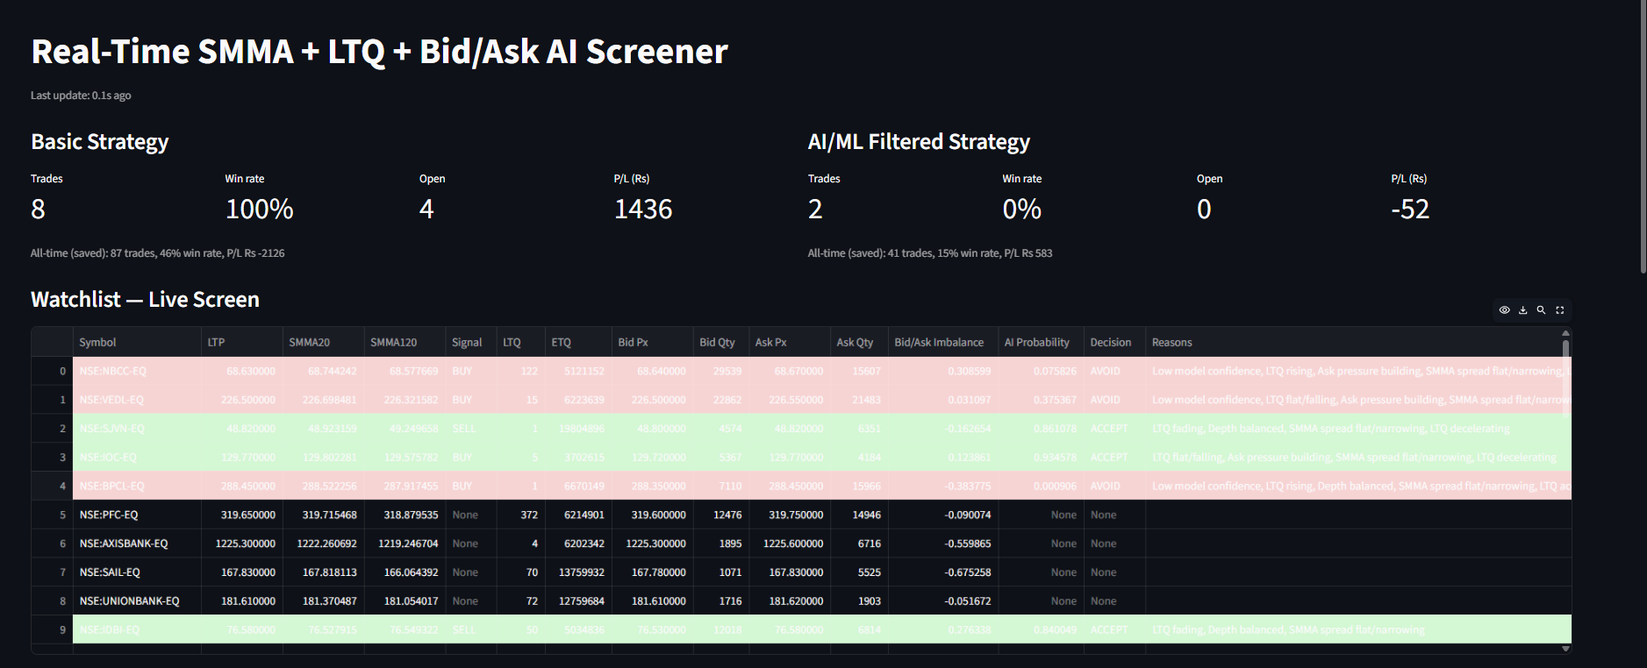
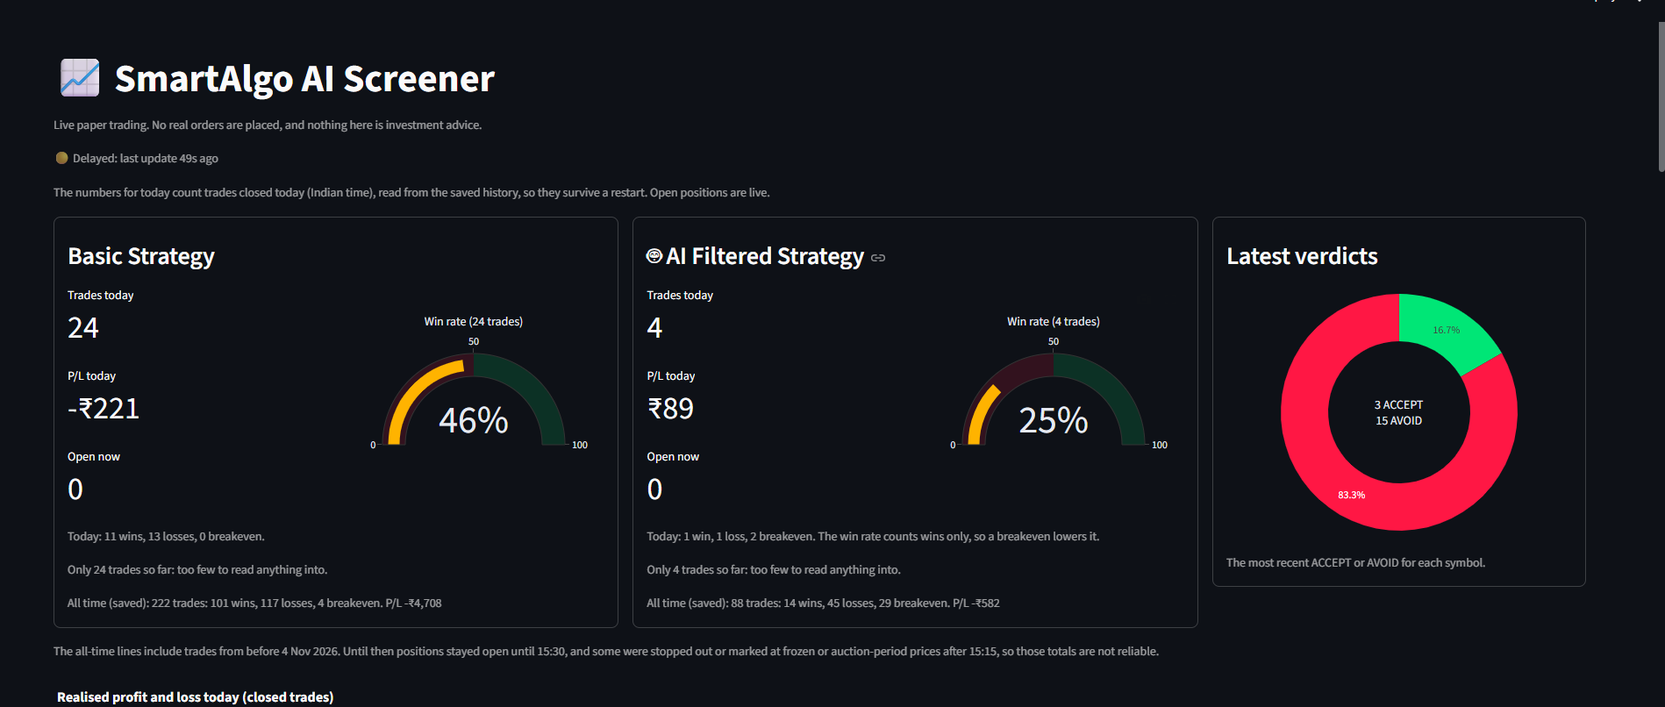
README: setup wizard, feed recovery, results through 16 Nov, new findings

diff --git a/README.md b/README.md
@@ -15,13 +15,13 @@ A Python real-time screening and paper-trading system for NSE equities. It detec
 The hosted demo runs the **same engine** as the live system (crossover detection, feature engineering, ML filter, paper-trading books) on a **synthetic price feed**, so it works instantly with no broker credentials.
 
 - Prices in the demo are a random walk, so no model can have a real edge there. The demo shows the pipeline mechanics, not trading performance.
-- The model was trained on 78 labelled crossovers from six early live Fyers files (some of which overlap, so some crossovers are probably counted twice). On a 16-example validation set it reached an AUC of 0.58, which is statistically indistinguishable from chance (p ≈ 0.33; 95% interval roughly 0.27 to 0.90). Treat it as a demonstration of the pipeline, not a trading edge. It will be retrained on cleaned, de-duplicated data as sessions accumulate.
+- The model was trained on 78 labelled crossovers from six early live Fyers files (some of which overlap, so some crossovers are probably counted twice). On a 16-example validation set it reached an AUC of 0.58, which is statistically indistinguishable from chance (p ≈ 0.33; 95% interval roughly 0.27 to 0.90). Live out-of-sample results since then do not show it working (finding 4). Treat it as a demonstration of the pipeline, not a trading edge. It will be retrained on cleaned, de-duplicated data and evaluated out of time as sessions accumulate.
 
 ## Live dashboard
 
 ![Live dashboard](docs/live_dashboard.png)
 
-*A live Fyers session on 26 Oct 2026, captured mid-session and before the 15:15 change described in finding 6 below. The "All time (saved)" lines under the tiles count trades that were stopped out or marked at frozen or auction-period prices after 15:15, so they overstate the Basic book's losses (at the time: Basic 87 trades, 46% win rate, −₹2,126; Filtered 41 trades, 15% win rate, +₹583). The tiles count trades closed that day. Row colours show each symbol's latest ACCEPT/AVOID decision, carried forward until its next crossover. The current dashboard adds win-rate gauges, a profit and loss curve, a verdict chart, a watchlist filter and CSV export of closed trades and decisions.*
+*A live Fyers session on 13 Nov 2026, captured after the session ended early (finding 7), so the status line is red: nothing had updated for 89 minutes. Each card shows the day's closed trades as wins, losses and breakevens, a win-rate gauge that stays amber until a book has 30 trades (fewer say little), and the all-time totals from the saved history. Those all-time lines include trades from before the engine started stopping at 15:15 on 4 Nov 2026, which were partly priced at frozen or auction-period prices (finding 6), so they are not reliable. The tiles count trades closed that day. Below the fold, the watchlist colours each symbol's latest ACCEPT/AVOID decision, and "Results and export" downloads the saved trades and decisions as CSV.*
 
 ## Architecture
 
@@ -69,6 +69,8 @@ Both books use stop-loss, target and max-hold exits. Each book holds at most one
 
 ## Quick start
 
+For a step-by-step guide with troubleshooting, see **[SETUP.md](SETUP.md)**.
+
 ### Docker (recommended)
 
 You only need Docker. Run from the project folder.
@@ -104,20 +106,23 @@ To retrain the demo model: `python -m demo.train_demo_model`.
 
 Each user runs their own instance with their own broker credentials. There is no shared data feed, which avoids redistributing broker data and regulated-advice territory.
 
-1. Copy `.env.example` to `.env` and fill in your Fyers app credentials (never commit `.env`).
-2. Fyers tokens expire daily: run `python fyers_login.py` each trading day and paste the printed token into `.env` as `FYERS_ACCESS_TOKEN`.
-3. Real NSE depth rarely reaches the literal 10 lakh bid/ask quantity in the original spec, so set `SCREENER_MIN_DEPTH_QTY` (for example `2000`) before training or running. Otherwise every signal is silently screened out. On Windows CMD: `set SCREENER_MIN_DEPTH_QTY=2000`.
-4. Train on saved ticks with `python -m ml.train --tick-csv <path>`.
-5. Run the screener and the dashboard in two terminals:
+1. Run `python setup_wizard.py`. It asks which broker you use and for your credentials (secrets are typed hidden and saved only to your local `.env`, which git ignores), and writes the settings the screener needs, including a minimum depth: real NSE order books rarely hold the literal 10 lakh shares of the original spec, so about 2000 is used or every signal is screened out. `python setup_wizard.py --check` shows what is set without showing any values. The amount per trade, stop, target, hold time and watchlist can be changed the same way.
+2. Fyers tokens expire daily. Each trading morning run `python fyers_login.py`: you log in in the browser and paste the redirected address back, and the day's token is saved into `.env` for you.
+3. Start the screener and the dashboard (containers read `.env` only when they are created):
+
+```bash
+docker compose --profile live down
+docker compose --profile live up -d
+```
+
+4. Without Docker, run the screener and the dashboard in two terminals:
 
 ```bash
 python main.py --broker fyers
 streamlit run dashboard/app.py
 ```
 
-Pass `--no-db` to `main.py` to run without saving to the database.
-
-A Windows `.exe` can be built with `build_exe.py` (PyInstaller).
+Pass `--no-db` to `main.py` to run without saving to the database. Train on saved ticks with `python -m ml.train --tick-csv <path>`. A Windows `.exe` can be built with `build_exe.py` (PyInstaller).
 
 ## Saved history and crash-safe restarts
 
@@ -131,7 +136,8 @@ Tables: `users`, `paper_positions` (closed trades), `open_positions`, `trade_log
 - On startup, positions saved earlier **the same IST day** are restored and keep running, along with the carried-forward decisions from the last dashboard snapshot.
 - Positions left over from an **earlier day** are closed and labelled `Recovered after restart (marked at last snapshot price)`.
 - A stop in the middle of the session leaves positions saved for the next start. Positions are only closed as `Session end` when the newest tick is at or after 15:15 IST.
-- At the end of the day the screener stops itself once the feed has been silent for 120 seconds (with Fyers, about 16:00 IST). Stopping it by hand after 15:15 does the same.
+- If the feed goes silent for two minutes while the market is open (weekdays, 09:00 to 15:15 IST), the screener exits with code 3, leaving its positions saved, and Docker restarts it (up to five times in a row). The new process waits for the broker connection (ten tries, twenty seconds apart; a wrong or expired login fails at once), restores the saved positions and carries on. After 15:15 a silent feed is a normal end of day.
+- At the end of the day the screener stops itself once the feed has been silent for 120 seconds (with Fyers, about 16:00 IST) and exits at once, even if a broker thread is still running.
 - Ticks that arrive while the screener is down are not replayed, so a price gap shows up at the first live price after the restart.
 - A saved row that cannot be restored is skipped and logged, and stays in the database.
 
@@ -150,23 +156,25 @@ pip install -r requirements.txt
 pytest
 ```
 
-229 automated tests run on every push through GitHub Actions. They cover the SMMA maths, candle aggregation, feature engineering, the depth screen, the crossover pipeline, the paper-trading engine, session-end handling, restart recovery, score tracing, the storage layer, the dashboard's data logic and charts, and the reports. Several are regression tests for real bugs listed below. The newer ones were checked by deliberately breaking the code to confirm the tests fail. A test guard also fails any test that writes into the real tick-data folder.
+322 automated tests (plus one that is skipped on Windows) run on every push through GitHub Actions. They cover the SMMA maths, candle aggregation, feature engineering, the depth screen, the crossover pipeline, the paper-trading engine, session-end handling, restart recovery, feed-loss recovery, score tracing, the storage layer, the dashboard's data logic and charts, the reports, the setup wizard and its safe `.env` editing, and the settings checks. Several are regression tests for real bugs listed below. The newer ones were checked by deliberately breaking the code to confirm the tests fail. A test guard also fails any test that writes into the real tick-data folder.
 
 ## What I found
 
-This project is mostly a record of things that looked right and were not. The six findings that taught me the most:
+This project is mostly a record of things that looked right and were not. The seven findings that taught me the most:
 
 **1. A "win rate" that was really a clock bug.** In the demo, every trade closed instantly at breakeven. Positions were stamped with wall-clock time, but exits were compared against an accelerated simulated clock, so every trade looked like it had been held past the max hold time. The fix was to use the triggering tick's timestamp everywhere, and it is now a rule: entry and exit logic only ever use the tick clock.
 
-**2. The deterioration monitor was reacting to noise.** On the first live session, every ACCEPTed trade was closed in the same second it opened. The monitor re-scored the model on each tick, and the score swung by 19 to 86 points between consecutive ticks. My first theory (the LTQ flag) was wrong; the model-confidence flag was the one firing. The monitor now waits 120 seconds, requires the warning to persist for 30 seconds, and only exits when price is at or below entry. After the change, deterioration exits were held for about 150 to 400 seconds. Whether the monitor helps is still **inconclusive**. After correcting for the 15:15 problem in finding 6, across 24 early exits since 15 October the Filtered book did better than the Basic twins by an average of ₹15 per trade (standard error ₹27; the monitor helped on 13 trades and hurt on 11). An approximate 95% interval of −₹39 to +₹68 includes zero comfortably, and a 13 to 11 split is what a fair coin gives most of the time (sign test p ≈ 0.84). The estimate has already moved a long way: it was +₹69 per trade on 21 exits before the correction, and −₹22 on only 4 exits before that.
+**2. The deterioration monitor was reacting to noise.** On the first live session, every ACCEPTed trade was closed in the same second it opened. The monitor re-scored the model on each tick, and the score swung by 19 to 86 points between consecutive ticks. My first theory (the LTQ flag) was wrong; the model-confidence flag was the one firing. The monitor now waits 120 seconds, requires the warning to persist for 30 seconds, and only exits when price is at or below entry. After the change, deterioration exits were held for about 150 to 400 seconds. Whether the monitor helps is still **inconclusive**. After correcting for the 15:15 problem in finding 6, across 39 early exits since 15 October (as of 16 November) the Filtered book did better than the Basic twins by an average of ₹35 per trade (standard error ₹23; the monitor helped on 24 trades and hurt on 15). An approximate 95% interval of −₹9 to +₹79 includes zero narrowly, and the sign test gives p ≈ 0.20. The estimate has bounced between +₹15 and +₹97 per trade as exits accumulated, and was −₹22 on the first 4 exits, which is what a noisy effect looks like.
 
 **3. My own training script was corrupting my data.** An audit of the saved tick files found duplicated sessions, mock rows mixed into real files and one file of 2.3 GB. The cause was that building a training set created the crossover engine with tick saving switched on, so every training run re-appended everything it read. Training and the end-to-end test no longer write there, and a regression test plus a guard in the test suite make a repeat fail loudly. The audit also confirmed that no mock rows reached the training set. Older files from before the fix are still mixed and are not used for training.
 
-**4. The model is a proof of pipeline, not an edge.** The validation AUC of 0.58 means the model ranked 32 of 55 profitable/unprofitable pairs correctly. With 16 validation examples, one-sided p ≈ 0.33 and a 95% interval of roughly 0.27 to 0.90, that cannot be separated from guessing. Score tracing tested a further suspicion, that high entry scores are not stable confidence, and the data so far supports it. For 32 ACCEPTed crossovers the mean score fell from 0.85 at entry to 0.54 within a minute and 0.41 after two minutes or more, and about 67% of the re-scored ACCEPTs (roughly 18 of 27) would have been flipped to AVOID by a later score. AVOID scores drifted the other way (0.13 to about 0.33). The entry-filter report is the first live out-of-sample test of the verdict itself, since the model was trained on August and September data. Corrected for the 15:15 problem, the 44 crossovers with a real-exit outcome split into 16 ACCEPTs (6 profitable, 38%, mean −₹37 per trade) and 28 AVOIDs (17 profitable, 61%, mean +₹71). The difference in mean P/L is −₹109 (95% bootstrap interval −₹258 to +₹50), the score's AUC for profit is 0.39 (0.22 to 0.57), and the gap in the share of profitable trades has a Fisher exact p of about 0.21. Taken at face value the ACCEPTs did worse than the AVOIDs. With groups this small and trades that overlap in time, that is compatible with chance, but it is the opposite of what a working filter would show: there is no evidence the model has an edge.
+**4. The model is a proof of pipeline, not an edge, and live results point the wrong way.** The validation AUC of 0.58 means the model ranked 32 of 55 profitable/unprofitable pairs correctly. With 16 validation examples, one-sided p ≈ 0.33 and a 95% interval of roughly 0.27 to 0.90, that cannot be separated from guessing. Score tracing tested a further suspicion, that high entry scores are not stable confidence, and the data so far supports it. For 32 ACCEPTed crossovers the mean score fell from 0.85 at entry to 0.54 within a minute and 0.41 after two minutes or more, and about 67% of the re-scored ACCEPTs (roughly 18 of 27) would have been flipped to AVOID by a later score. The entry-filter report is the first live out-of-sample test of the verdict itself, since the model was trained on August and September data. Using the corrected history (finding 6), the 97 crossovers with a real-exit outcome as of 16 November split into 28 ACCEPTs (8 profitable, 29%, mean −₹80 per trade) and 69 AVOIDs (42 profitable, 61%, mean +₹41). The difference in mean P/L is −₹121 (95% bootstrap interval −₹214 to −₹21), the score's AUC for profit is 0.35 (0.24 to 0.47), and the gap in the share of profitable trades has a Fisher exact p of about 0.007. The AUC has fallen each time I looked: 0.44 on 59 outcomes before the 15:15 correction, then 0.39 on 44 and 0.35 on 97 after it. Taken at face value the ACCEPTs did worse than the AVOIDs, which is the opposite of what a working filter would show. I am not treating that as a finding about the market. The trades overlap in time and share market moves, so the intervals and the p-value are too optimistic; the ACCEPT group is still below the 30 trades the report asks for; this is the third look at the same accumulating data; and 38 of 179 crossovers are left out because their Basic trade closed by a mark. What it does show is that there is no evidence of positive skill and a hint of the opposite that a day-by-day, out-of-time test should settle before anything is concluded.
 
 **5. Crash safety was a real gap.** A PC restart on 15 October lost the open positions and blanked every decision on the dashboard. Open positions and carried decisions are now persisted and restored as described above. On 26 and 27 October, open positions survived a real PC restart, a graceful mid-day stop and a hard container kill in live sessions.
 
-**6. The market close I assumed was wrong, and it was distorting my results.** I had coded the NSE close as 15:30. Since 3 August 2026, continuous trading in stocks that have F&O contracts ends at 15:15 and a closing auction follows, and Fyers starts squaring off intraday positions around the same time. The tick files show it. For 33 of my 43 symbols the tick rate fell to under half after 15:15, and the price sat frozen at its 15:14 value until a single jump at about 15:28. On 27 October, GAIL, NTPC and NATIONALUM each showed no price change from 15:15 to 15:27 and then stepped to their final price of the day at 15:28. My engine stopped those positions out at that final auction price, which nobody could have traded at. The stop-losses that closed in the last ten minutes averaged −1.26% against −0.62% for the rest, which is how I noticed. Re-marking every trade as if the engine had stopped at 15:15 (using the tick files) turned the Basic book from −₹3,542 on 130 trades into +₹571 on 120, and from −₹4,604 to −₹137 counting only real exits (44 wins and 44 losses). It also removed 18 trades entered after 15:15, which had lost ₹3,890 between the two books. The engine now stops at 15:15. Everything recorded before that change is affected, including the all-time totals on the dashboard, and 9 trades from two days with damaged tick files could not be re-marked.
+**6. The market close I assumed was wrong, and it was distorting my results.** I had coded the NSE close as 15:30. Since 3 August 2026, continuous trading in stocks that have F&O contracts ends at 15:15 and a closing auction follows, and Fyers starts squaring off intraday positions around the same time. The tick files show it. For 33 of my 43 symbols the tick rate fell to under half after 15:15, and the price sat frozen at its 15:14 value until a single jump at about 15:28. On 27 October, GAIL, NTPC and NATIONALUM each showed no price change from 15:15 to 15:27 and then stepped to their final price of the day at 15:28. My engine stopped those positions out at that final auction price, which nobody could have traded at. The stop-losses that closed in the last ten minutes averaged −1.26% against −0.62% for the rest, which is how I noticed. Re-marking every trade as if the engine had stopped at 15:15 (using the tick files) turned the Basic book from −₹3,542 on 130 trades into +₹571 on 120 as of 30 October, and from −₹4,604 to −₹137 counting only real exits. It also removed 18 trades entered after 15:15, which had lost ₹3,890 between the two books. As of 16 November the corrected Basic book is −₹373 on 188 trades (91 wins, 93 losses, 4 breakeven), which is breakeven within noise. The engine now stops at 15:15. None of the 90 trades recorded between 31 October and 16 November opened or closed at or after 15:15. Everything recorded before the change is affected, including the all-time totals on the dashboard, and 9 trades from two days with damaged tick files could not be re-marked.
+
+**7. A 30-second internet drop ended a whole trading day.** On 13 November the websocket dropped at 14:54 IST. Four of five reconnect attempts in 26 seconds failed with `Name or service not known` (a DNS failure), the Fyers library gave up, a late connection opened but delivered no ticks, and my watchdog ended the session two minutes later, leaving two positions saved. The container then stayed up for 90 minutes because a leftover broker thread kept the process alive; the log shows the traceback from when it was finally stopped. That probably also explains an earlier unexplained `Exited (137)`. The process now exits as soon as a session is finished. A feed lost while the market is open ends with exit code 3, Docker restarts the screener, and the new process waits up to about three minutes for the broker connection and restores its open positions. This is covered by tests but has not yet been exercised in a live outage.
 
 ## Bugs found and fixed
 
@@ -188,19 +196,23 @@ Real debugging, documented rather than hidden:
 - **Shutdown routine ran twice:** stopping with Ctrl+C or `docker stop` ran the end-of-session routine from both the signal handler and the `finally` block, so the report printed twice and, after the close, positions would have been closed twice. It now runs once and retries if it fails (checked on a live stop on 27 Oct: one report, one session-end close).
 - **The engine kept trading after the close, and then I got the close wrong:** it went on opening positions and evaluating exits until the feed went quiet around 16:00 IST. I fixed that with a 15:30 cutoff, but since 3 August 2026 continuous trading in F&O stocks ends at 15:15, so positions held to 15:30 were stopped out or marked at frozen or auction-period prices. The cutoff is now 15:15 for every symbol, and the existing history was re-marked for analysis (finding 6).
 - **Missing values showed as "None" in the dashboard tables:** my first fix changed only the HTML preview, not the data Streamlit receives, and my tests missed it because they checked the preview. Columns with gaps are now converted to formatted text, and the tests check the data Streamlit actually gets.
+- **The process stayed alive after a session ended:** a leftover broker thread kept it running for 90 minutes on 13 November, and probably caused an earlier `Exited (137)`. The process now exits at once with a code that says whether it ended normally or crashed.
+- **A short network drop ended the trading day:** the broker library gave up after 26 seconds and nothing tried again (finding 7). A lost feed during market hours now ends in a restartable exit, and a restart waits out a network drop when connecting.
+- **The dashboard's note about older history never appeared:** the check used each trade's entry time, which the trade list does not carry. It now falls back to the exit time.
 
 ## Known limitations
 
 - Restart recovery has been exercised in live sessions (26 and 27 Oct 2026): after a PC restart, a graceful mid-day stop and a hard container kill, open positions were restored with their original entry prices and times and then exited normally (max hold for Basic positions, the deterioration monitor for a Filtered one, whose grace period counted from its original entry). The Filtered book's recovery was exercised once, by the hard kill. These are single instances, which show the path works but are not exhaustive. On 29 Oct 2026 the earlier-day path also ran live for the first time: three positions (two Basic, one Filtered) left open when the program stopped unexpectedly the previous afternoon were closed as `Recovered after restart` at the last price saved before it stopped. Those are marks, not fills.
+- The restart after a lost feed (exit code 3, Docker `restart: on-failure:5`, patient reconnecting) is covered by tests with a fake broker but has not been exercised in a live outage. After a PC reboot Docker may start the screener by itself; with a stale token it fails and stops after five tries.
 - Ticks missed while the program was down are not replayed, so a stop or target crossed during the downtime fires at the first live price after the restart.
 - Positions still open when the screener stops after the cutoff are closed at the last price seen and labelled `Session end (marked at last price)`. Positions left open overnight by a crash are closed at the last saved price and labelled `Recovered after restart`. Both are marks, not fills, and analyses should filter on these reasons.
-- For live brokers the engine stops trading at 15:15 IST (changed on 4 November 2026): from the first tick at or after 15:15 it opens nothing, evaluates no exits, and marks open positions at the last price seen before then. This is covered by automated tests but has not yet been seen in a live session. Its 15:30 predecessor was seen once, on 30 Oct. The rule applies to every symbol, although 10 of the 43 watchlist symbols kept trading continuously until 15:30 on the day I checked, so it is conservative for those.
-- Everything recorded before that change includes trades that stayed open past 15:15 and were stopped out or marked at frozen or auction-period prices, or that were opened after 15:15 at frozen prices. The dashboard's all-time lines still count them. A re-marked analysis copy, rebuilt from the tick files as if the engine had stopped at 15:15, puts the Basic book at +₹571 on 120 trades instead of −₹3,542 on 130. It is an estimate: marks are not fills, and 9 trades from 14 and 16 Oct could not be re-marked because those tick files are mixed with mock rows.
-- The Filtered book's win rate counts exact breakevens as non-wins. In the saved history 21 of its 62 trades closed at exactly zero profit, 10 of them on 14 Oct, when an old monitor bug closed trades within seconds.
-- The Fyers access token must be regenerated every trading day.
-- The model's training sample is tiny and partly duplicated, its validation AUC is indistinguishable from chance, and its score for the same setup can move by tens of points within seconds on real data. Its probabilities should not be read as confidence.
-- Live paper-trading results so far cover a few sessions and on the order of a hundred trades per book, far too few to judge the strategy. The comparison of the Filtered book against Basic, and the entry-filter comparison of ACCEPT against AVOID, are not statistically meaningful yet: each group is below the 30 trades the reports ask for. The entry-filter report also leaves out the 23 of 93 crossovers whose Basic trade closed by a mark.
-- Many Filtered trades have no Basic twin: after the monitor cuts a Filtered trade, a new crossover can re-enter Filtered while Basic still holds its original position.
+- For live brokers the engine stops trading at 15:15 IST (changed on 4 November 2026): from the first tick at or after 15:15 it opens nothing, evaluates no exits, and marks open positions at the last price seen before then. This is covered by automated tests, and every trade recorded between 31 October and 16 November opened and closed before 15:15, which is consistent with it working live; I have not separately inspected the individual marks. The rule applies to every symbol, although 10 of the 43 watchlist symbols kept trading continuously until 15:30 on the day I checked, so it is conservative for those.
+- Everything recorded before that change includes trades that stayed open past 15:15 and were stopped out or marked at frozen or auction-period prices, or that were opened after 15:15 at frozen prices. The dashboard's all-time lines still count them and say so. A re-marked analysis copy, rebuilt from the tick files as if the engine had stopped at 15:15, puts the Basic book at −₹373 on 188 trades as of 16 November instead of a much larger loss in the raw history. It is an estimate: marks are not fills, and 9 trades from 14 and 16 Oct could not be re-marked because those tick files are mixed with mock rows.
+- The Filtered book's win rate counts exact breakevens as non-wins, and its early exits can only happen at or below the entry price, so its win rate is not comparable with Basic's: compare profit and loss. In the saved history 25 of its 76 corrected trades closed at exactly zero.
+- The Fyers access token must be regenerated every trading day (`python fyers_login.py` saves it for you).
+- The model's training sample is tiny and partly duplicated, its validation AUC is indistinguishable from chance, its live ACCEPT/AVOID verdicts do no better than chance and possibly worse (finding 4), and its score for the same setup can move by tens of points within seconds on real data. Its probabilities should not be read as confidence.
+- Live paper-trading results so far cover about a month and a few hundred trades per book, far too few to judge the strategy. The monitor comparison now has 39 early exits, still not significant; the entry-filter comparison has 28 ACCEPTs, below the 30 the report asks for, and leaves out the 38 of 179 crossovers whose Basic trade closed by a mark. The trades overlap in time, so the reports' intervals are too narrow.
+- Many Filtered trades have no Basic twin (15 of 64 in the latest report): after the monitor cuts a Filtered trade, a new crossover can re-enter Filtered while Basic still holds its original position.
 - Some historical tick files from before the pollution fix contain duplicated sessions or mock rows. The model was not trained on mock rows.
 - The Angel One adapter has not been exercised in a live session.
 - The Docker setup keeps its own database, separate from a local run's.
@@ -211,13 +223,12 @@ Python 3.12, scikit-learn, joblib, SQLAlchemy, SQLite, Streamlit, Plotly, pandas
 
 ## Roadmap
 
-**Done:** CI and regression tests, database persistence, Docker (dashboard and demo served on localhost only), crash-safe restarts, a 15:15 trading cutoff, an entry-filter report, and a redesigned dashboard with CSV export.
+**Done:** CI and regression tests, database persistence, Docker (dashboard and demo served on localhost only), crash-safe restarts, a 15:15 trading cutoff, restart after a lost feed, an entry-filter report, a redesigned dashboard with CSV export, a guided setup wizard with safe `.env` editing, a Fyers login that saves its own token, and `SETUP.md`.
 
 **To call it ready to run (v1.0):**
-- A setup guide, and a documented clean-machine test from a fresh `git clone`.
-- A guided first-run setup that keeps credentials on the user's own machine.
-- Dashboard cards that show wins, losses and breakevens, and all-time totals recomputed under the 15:15 rule.
+- A documented clean-machine test from a fresh `git clone`, following `SETUP.md`.
+- One live session with a deliberate network drop, to exercise the restart after a lost feed.
 - The Angel One adapter either tested live or clearly marked experimental.
-- One live session seen end to end under the 15:15 rule.
+- The hosted demo brought up to date with the dashboard's formatting.
 
-**Later:** retraining on verified live data with a time-based split and a bootstrap confidence interval (revisited at roughly 200 scored outcomes; the current live result is indistinguishable from chance). A hosted multi-user version is deliberately deprioritised: it would mean holding other people's broker credentials and showing signals to others, which raises broker-terms and SEBI research-analyst questions that need proper legal review first.
+**Later:** retraining on verified live data with walk-forward validation (train on earlier days, test on later ones) and day-level confidence intervals, shipping a new model only if its whole interval beats chance, and keeping the current one otherwise. A hosted multi-user version is deliberately deprioritised: it would mean holding other people's broker credentials and showing signals to others, which raises broker-terms and SEBI research-analyst questions that need proper legal review first.
